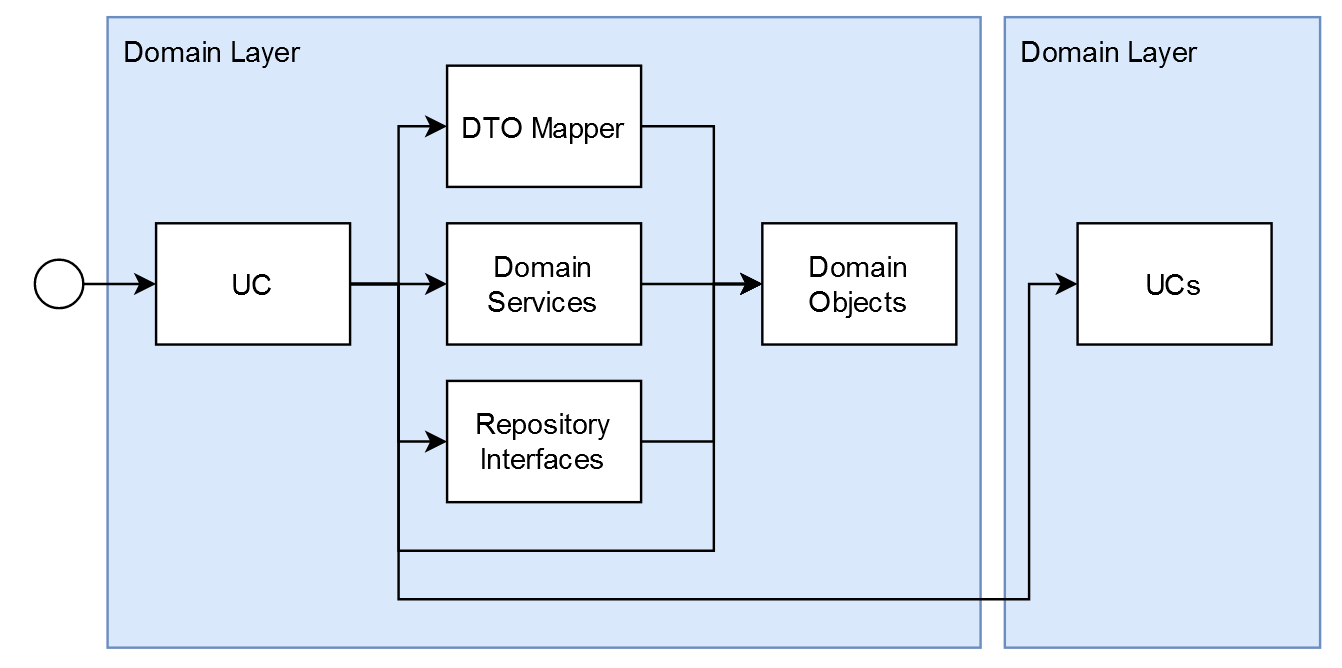
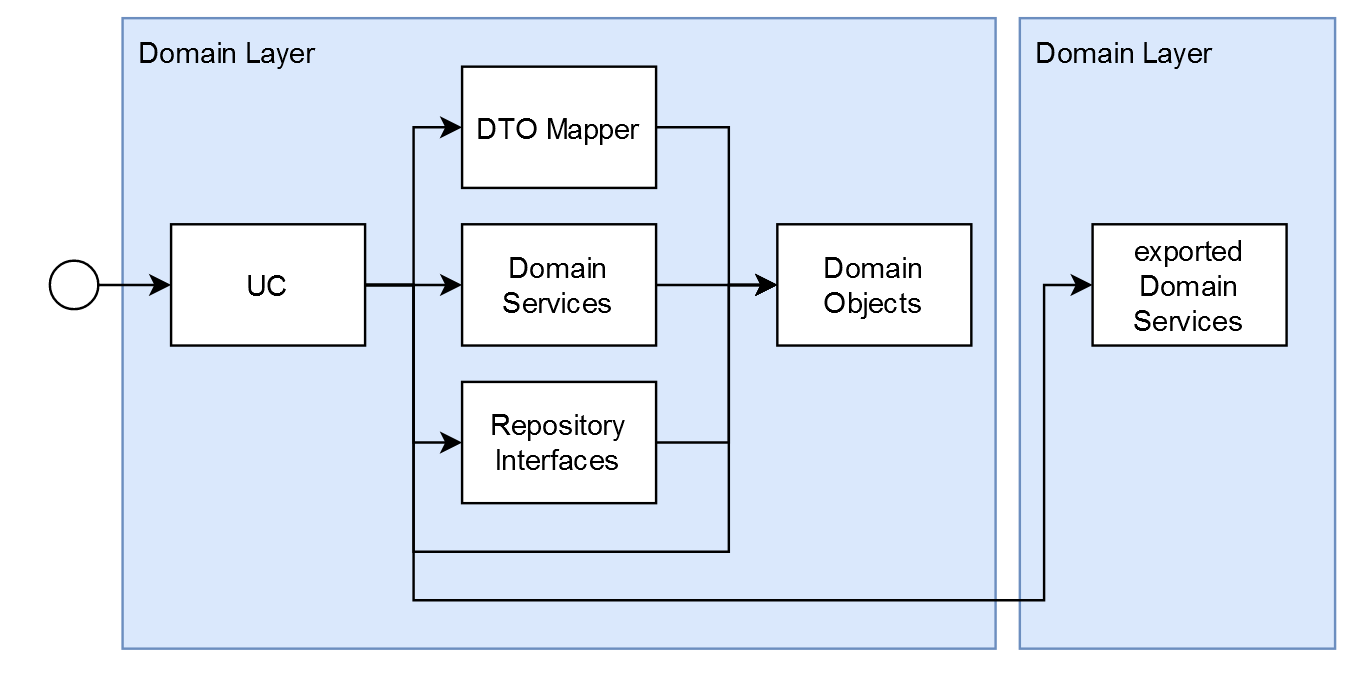
how to access other modules

Changed region(s): [[0.0306, 0.0, 1.0, 0.988], [0.7638, 0.0, 0.9776, 0.0299], [0.611, 0.3892, 0.6721, 0.479]]

diff --git a/apps/server/doc/architecture.md b/apps/server/doc/architecture.md
@@ -5,14 +5,14 @@
 Our architecture aims to achieve the following goals:
 
 - Maintainability
-    - it should be easy as possible to make changes that do not change the behaviour of the system (refactoring)
-    - it should be easy to exchange entire components of the system, without impact on other components.
+  - it should be easy as possible to make changes that do not change the behaviour of the system (refactoring)
+  - it should be easy to exchange entire components of the system, without impact on other components.
 - Extendability
-    - it should be easy to add new functionality to the system
+  - it should be easy to add new functionality to the system
 - Agility
-    - it should be easy to react to changing requirements during our development process
+  - it should be easy to react to changing requirements during our development process
 - Change Security
-	- it should be easy to determine the correctness of the system after making any changes
+- it should be easy to determine the correctness of the system after making any changes
 
 ## Principles
 
@@ -20,28 +20,28 @@ In order to achieve these goals, we try to follow the principles detailed below.
 These principles apply to all layers of our software, from lines of code and methods to modules and architectural layers.
 
 - **Single Responsibility / Seperation of Concerns**
-	- each piece of code should have a single layer of abstraction/detail
-	- each piece of code should have a single reason to change
+  - each piece of code should have a single layer of abstraction/detail
+  - each piece of code should have a single reason to change
 - **Open/Closed Principle**
-	- design to be open to extension, but closed to modification
-- **Liskov Substitution**
-	- the specific input may be more generic than its interface
-	- the specific output may be more specialized than its interface
+  - design to be open to extension, but closed to modification
+  - **Liskov Substitution**
+  - the specific input may be more generic than its interface
+  - the specific output may be more specialized than its interface
 - **Interface Segregation**
-	- multiple small interfaces are preferred over big interfaces
+  - multiple small interfaces are preferred over big interfaces
 - **Dependency Inversion Principle**
-	- always depend on interfaces, not implementations
-	- higher level parts should not depend on lower level parts.
+  - always depend on interfaces, not implementations
+  - higher level parts should not depend on lower level parts.
 - **Keep It Simple (KISS)**
-	- any piece of code should be simple and readable
-	- any logic should be broken down to be trivial
-	- beware of overenginiering and premature optimisation
+  - any piece of code should be simple and readable
+  - any logic should be broken down to be trivial
+  - beware of overenginiering and premature optimisation
 - **You Aint Gonna Need It (YAGNI)**
-	- keep decisions open for as long as possible
-	- build only what you need to build, stay flexible for future requirements
+  - keep decisions open for as long as possible
+  - build only what you need to build, stay flexible for future requirements
 - **Do Not Repeat Yourself (DRY)**
-	- do not solve the same responsability or concern in multiple places
-	- beware of things that look similar, but are not. for example, things that change for different reasons should not be combined, even if their code looks the same
+  - do not solve the same responsability or concern in multiple places
+  - beware of things that look similar, but are not. for example, things that change for different reasons should not be combined, even if their code looks the same
 
 ## Server Layer Architecture
 
@@ -59,18 +59,21 @@ The Domain Layer contains the business logic of the application. As mentioned ab
 
 The entry point for any call to the domain layer is always a usecase (UC). A usecase is the description of a single business process within the domain.
 
-**A usecase only does orchestration**
+A usecase **only does orchestration**
 
 It might:
+
 - make calls to repository or factory interfaces to get the business objects it needs (that are implemented in the repository layer)
 - use business objects and domain services to perform actions or get data it needs
 - make authorisation checks using the authorisation service
-- make calls to usecases in other modules to delegate things it doesnt know itself
+- make calls to services of other modules that are explicitly exported by that module
 - make calls to a repository interface to persist changes it made (implemented in the repository layer)
 - make calls to a different infra service interface defined in the domain layer (implemented by the repository layer) to perform actions that are implemented outside the domain (like sending an email to a user)
 - use a mapper to transform its data into a DTO it wants to return
 
 It should not:
+
+- call other usecases
 - perform any logic or data transformations itself
 - do any error handling by itself
 - make any decisions by itself
@@ -109,3 +112,5 @@ The exact split of modules is still work in progress, or left open as implementa
 - the modules define an explicit public interface of usecases and types they expose to other modules
 - no module should ever try to access a class of a different module that is not explicitly exported
 - no injectable should ever be defined in more than one module
+- a module should only export services to be used by other modules.
+- a module that other modules might need to import, especially in another mikroservice, should not contain controllers.
